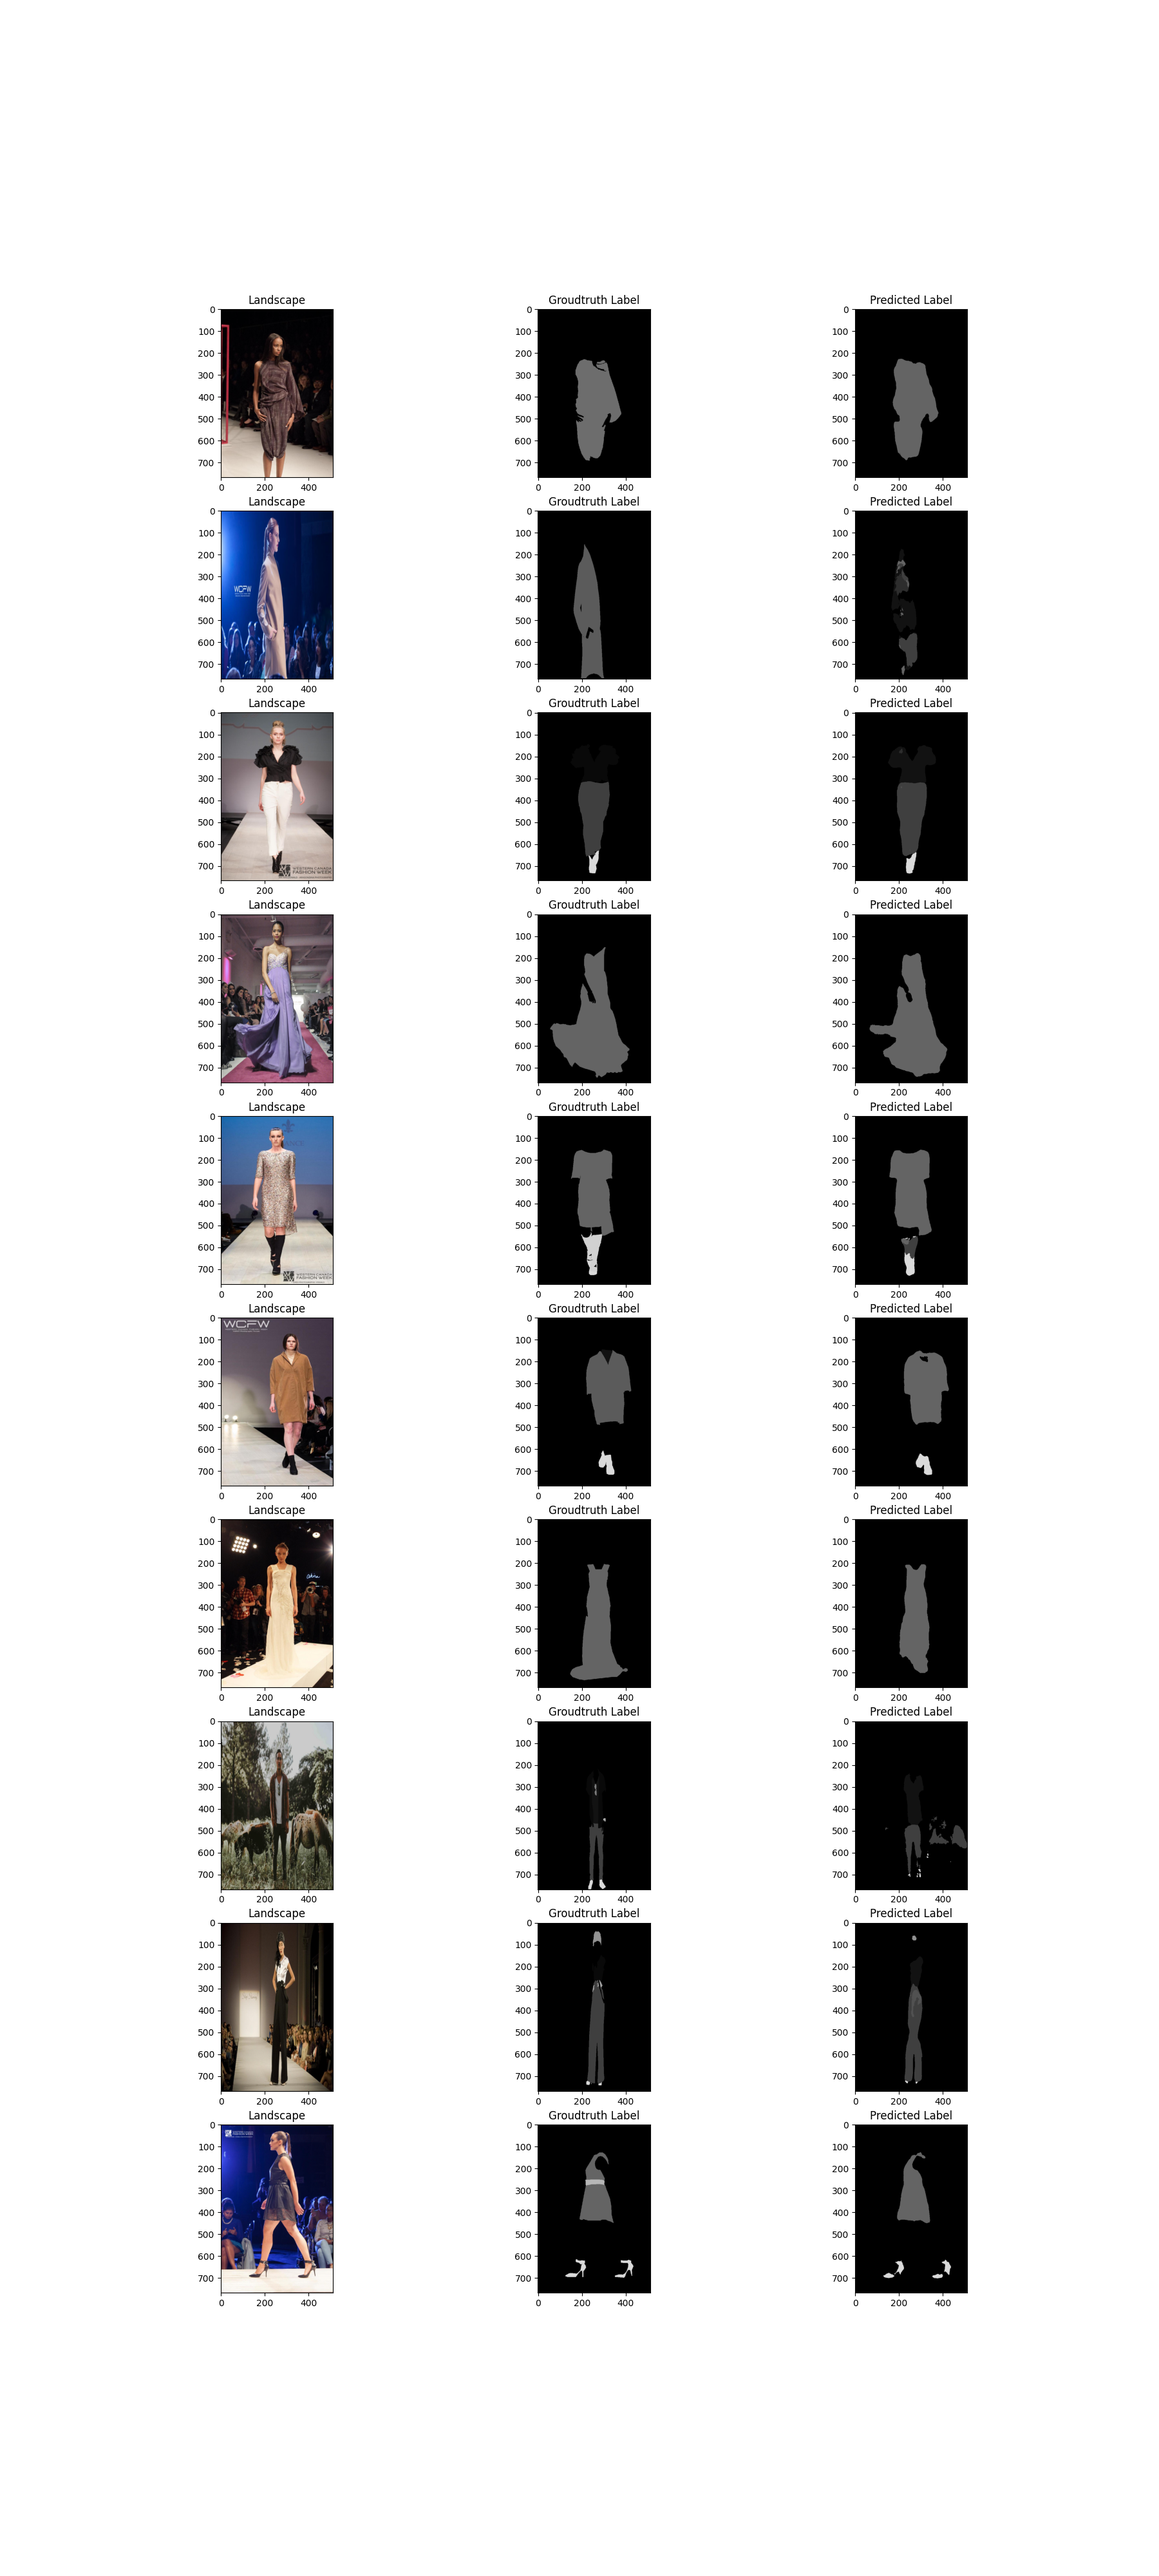
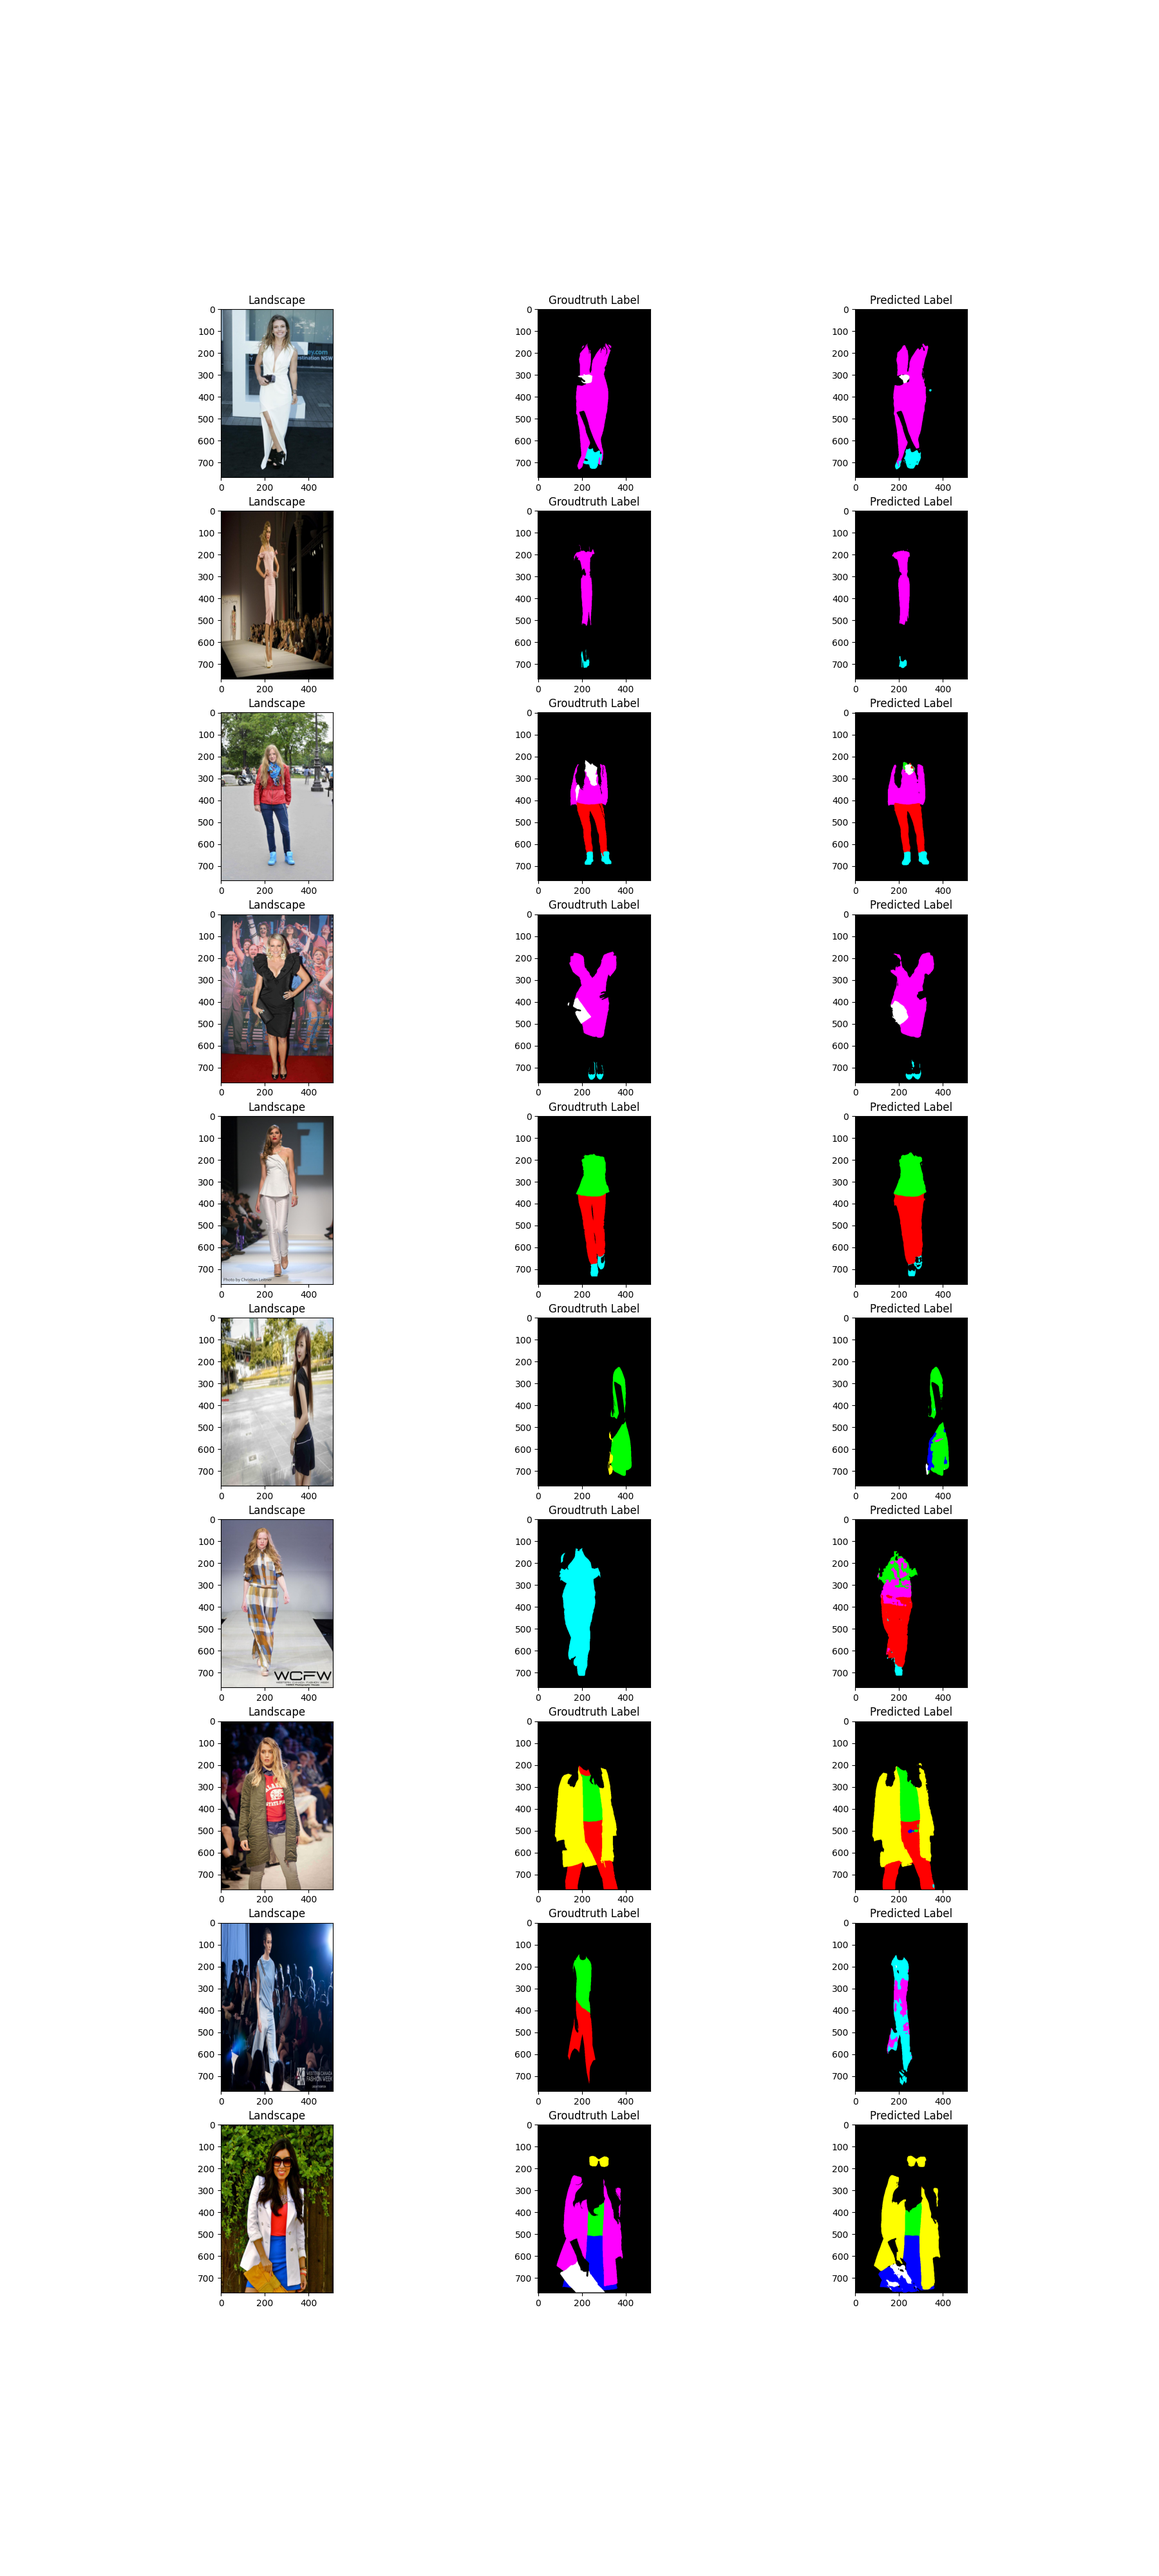
segformer executed imagenet

diff --git a/run_segformer.py b/run_segformer.py
@@ -69,12 +69,42 @@ scheduler = OneCycleLR(optimizer, max_lr= MAX_LR, epochs = N_EPOCHS,steps_per_ep
 _ = train_validate_model(model, N_EPOCHS, MODEL_NAME, criterion, optimizer, 
                          device, train_dataloader, val_dataloader, meanIoU, 'meanIoU',
                          NUM_CLASSES, lr_scheduler = scheduler, output_path = config.ROOT)
-
 model.load_state_dict(torch.load(f'{MODEL_NAME}.pt', map_location=device))
 _, test_metric = evaluate_model(model, test_dataloader, criterion, meanIoU, NUM_CLASSES, device)
 print(f"\nModel has {test_metric} mean IoU in test set")
 
 id_to_color = np.array([[i,i,i] for i in range(29)], dtype=np.uint8)
+id_to_color = np.array([
+    [0,0,0],
+    [255,0,0],
+    [0,255,0],
+    [0,0,255],
+    [255,255,0],
+    [255,0,255],
+    [0,255,255],
+    [128,0,0],
+    [0,128,0],
+    [0,0,128],
+    [128,128,0],
+    [128,0,128],
+    [0,128,128],
+    [192,64,0],
+    [64,192,0],
+    [0,64,192],
+    [192,0,64],
+    [64,0,192],
+    [0,192,64],
+    [255,128,0],
+    [255,0,128],
+    [128,255,0],
+    [0,255,128],
+    [128,0,255],
+    [0,128,255],
+    [255,128,128],
+    [128,255,128],
+    [128,128,255],
+    [200,200,200]
+], dtype=np.uint8)
 from utils import visualize_predictions
 num_test_samples = 10
 _, axes = plt.subplots(num_test_samples, 3, figsize=(3*6, num_test_samples * 4))
